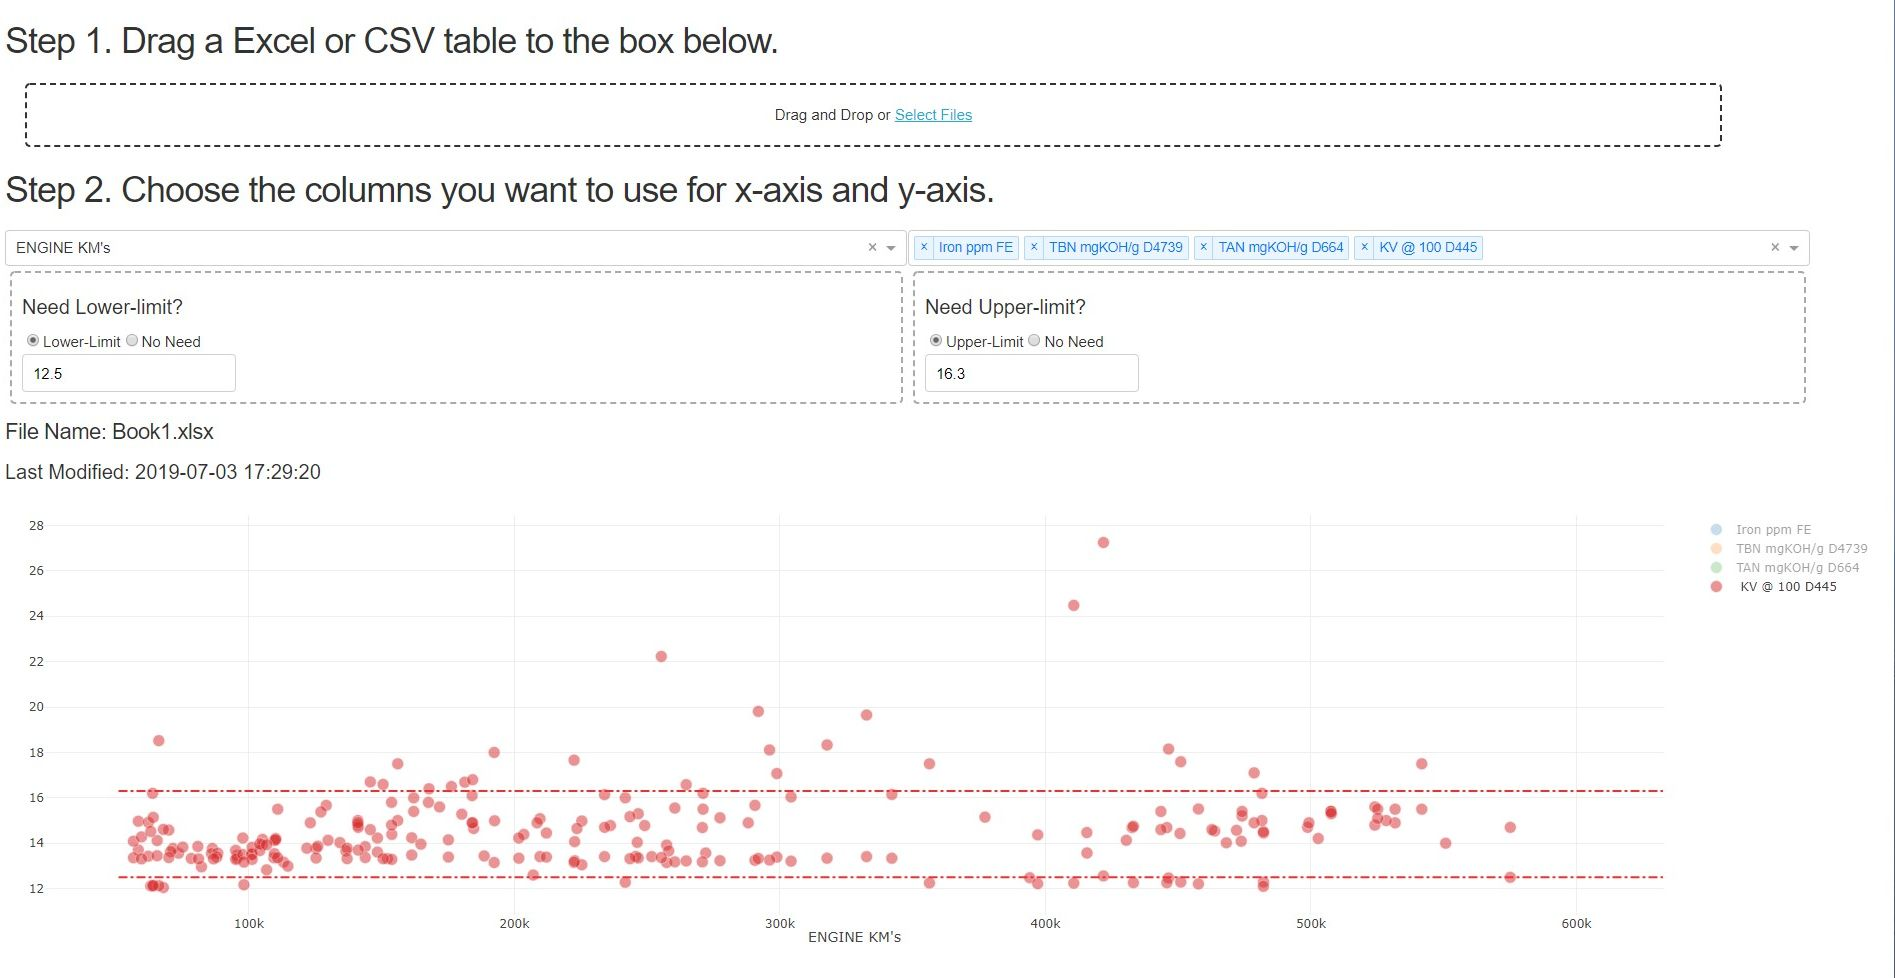
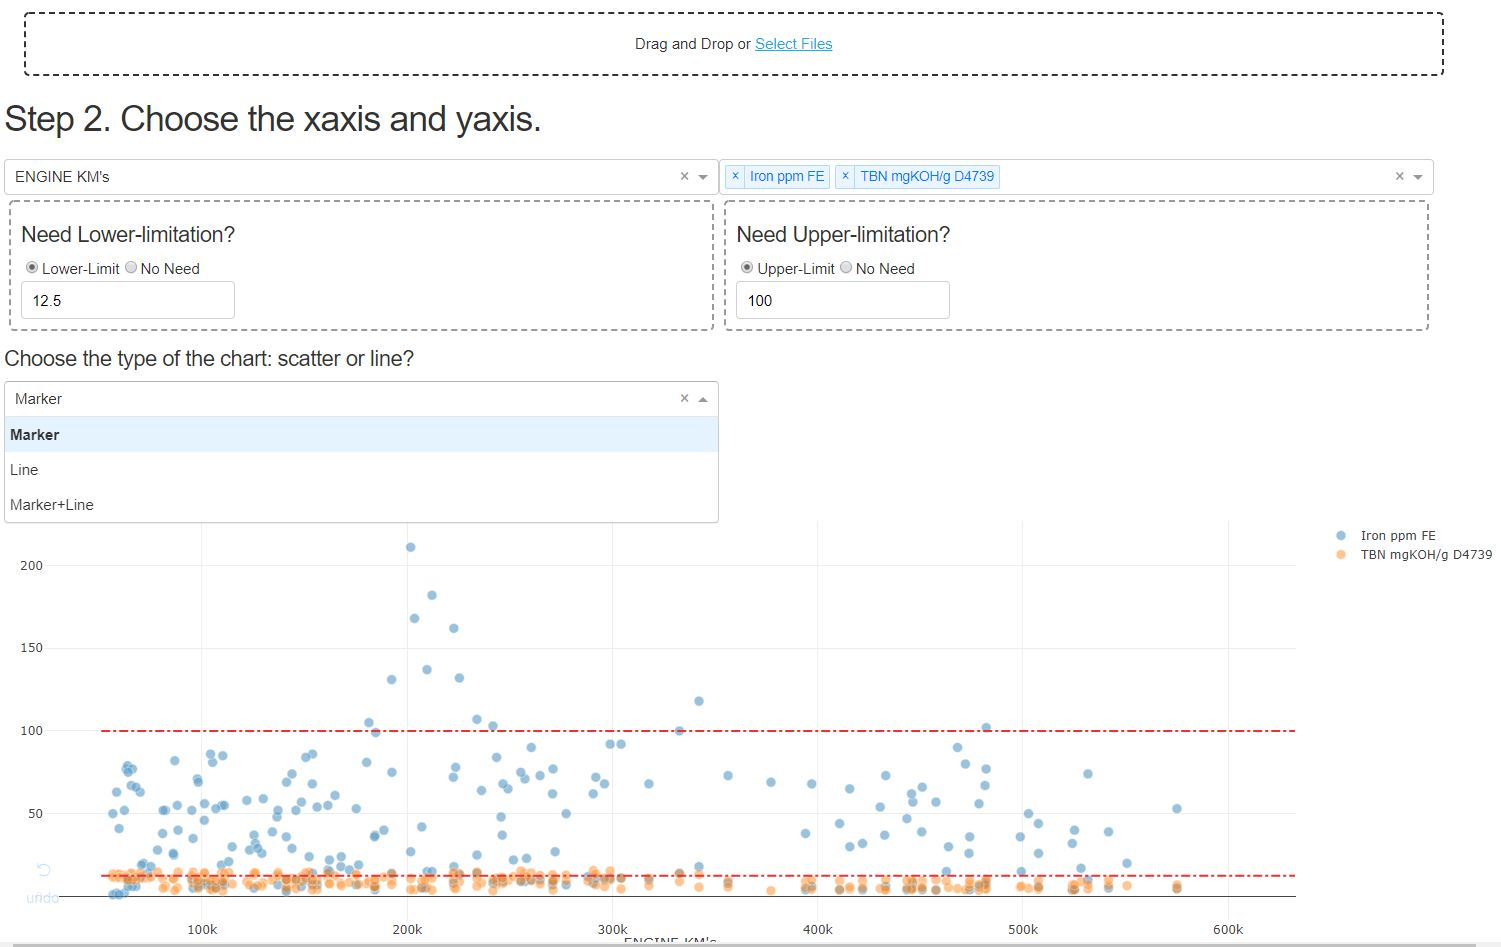
version 0.2

diff --git a/uplod.py b/uplod.py
@@ -8,6 +8,7 @@ from dash.dependencies import Input, Output, State
 import dash_core_components as dcc
 import dash_html_components as html
 import dash_table
+from flask_caching import Cache
 
 import pandas as pd
 import plotly.graph_objs as go
@@ -24,12 +25,21 @@ auth = dash_auth.BasicAuth(
     app,
     VALID_USERNAME_PASSWORD_PAIRS
 )
+CACHE_CONFIG = {
+    # try 'filesystem' if you don't want to setup redis
+    # 'CACHE_TYPE': 'redis',
+    # 'CACHE_REDIS_URL': os.environ.get('REDIS_URL', 'localhost:6379')
+    'CACHE_TYPE': 'filesystem',
+    'CACHE_DIR': r'./tmp'
+}
+cache = Cache()
+cache.init_app(app.server, config=CACHE_CONFIG)
  
 # available_indicators = df['Indicator Name'].unique()
 
 app.layout = html.Div([
     html.H2('Step 1. Upload an excel or csv file.'),
-	# Upload component
+    # Upload component
     dcc.Upload(
         id='upload-data',
         children=html.Div([
@@ -68,7 +78,7 @@ app.layout = html.Div([
                 placeholder='Enter a value...',
                 type='text',
                 value=''
-		),
+        ),
         ],
             style={'border': '2px dashed #999', 'borderRadius': '5px', 
                     'padding': '10px', 'margin': '5px 5px'}
@@ -99,18 +109,30 @@ app.layout = html.Div([
                 placeholder='Enter a value...',
                 type='text',
                 value=''
-		    )],
+            )],
             style={
                 'border': '2px dashed #999', 'borderRadius': '5px', 
                 'padding': '10px', 'margin': '5px 5px'}),
             ],
     style={'width': '48%', 'display': 'inline-block'}),
+
+    html.Div([
+        html.H5('Choose the type of the chart: scatter or line?'),
+        dcc.Dropdown(
+            id='scatter-mode',
+            value='markers',
+            options=[{'label': i, 'value': j} for i, j in 
+                        zip(['Marker', 'Line', 'Marker+Line'], ['markers', 'lines', 'lines+markers'])]
+        )
+    ],
+        style={'width': '48%'}),
+
     html.Div(id='output-data-upload'),
 ])
 
-
 # get useful data from dataset
-def parse_contents(contents, xName, minLim, minLimVal, yNames, maxLim, maxLimVal, filename, states):
+def parse_contents(contents, xName, minLim, minLimVal, yNames, 
+                    maxLim, maxLimVal, marker_mode, filename, states):
     content_type, content_string = contents.split(',')
     decoded = base64.b64decode(content_string)
     try:
@@ -131,27 +153,32 @@ def parse_contents(contents, xName, minLim, minLimVal, yNames, maxLim, maxLimVal
     traces = []
     # print(yNames)
     # print(df.columns)
+    if marker_mode == 'markers':
+        marker = {'size': 10, 'opacity': 0.65, 'line': {'width': 0.5, 'color': 'white'}}
+    else:
+        marker = {'size': 7, 'opacity': 0.65}
     for i in yNames:
-    	traces.append(go.Scatter(
-    							x=df.loc[:, xName],
-    							y=df.loc[:, i],
-    							mode='markers',
-    							marker={'size': 12, 'opacity': 0.5,
-    									'line': {'width': 0.5, 'color': 'white'}},
-    							name=i,
-    		))
+        traces.append(go.Scatter(
+                                x=df.loc[:, xName],
+                                y=df.loc[:, i],
+                                mode=marker_mode,
+                                marker=marker,
+                                opacity=0.7,
+                                # marker={'size': 10, 'opacity': 0.65, 'line': {'width': 0.5, 'color': 'white'}},
+                                name=i,
+            ))
 
     # 根据 minLim等的情况，决定是否加线
     # plt.vlines(0, 0, 0.5, colors = "c", linestyles = "dashed")
     # plotly 里面加线：https://plot.ly/python/shapes/
     if (minLim == 'No Need') & (maxLim == 'No Need'):
-    	    layout = go.Layout(xaxis={'title': xName},
-    					margin={'l': 40, 'r':20, 't':20, 'b':30},
-    					hovermode='closest')
+            layout = go.Layout(xaxis={'title': xName},
+                        margin={'l': 40, 'r':20, 't':20, 'b':30},
+                        hovermode='closest')
     if (minLim != 'No Need') & (maxLim == 'No Need'):
             layout = go.Layout(xaxis={'title': xName},
-    					margin={'l': 40, 'r':20, 't':20, 'b':30},
-    					hovermode='closest',
+                        margin={'l': 40, 'r':20, 't':20, 'b':30},
+                        hovermode='closest',
                         shapes=[
                             {'type': 'line', 'x0': min(df[xName])*0.9, 'y0': minLimVal, 
                             'x1': max(df[xName])*1.1, 'y1': minLimVal,
@@ -159,8 +186,8 @@ def parse_contents(contents, xName, minLim, minLimVal, yNames, maxLim, maxLimVal
                         ])
     if (minLim == 'No Need') & (maxLim != 'No Need'):
             layout = go.Layout(xaxis={'title': xName},
-    					margin={'l': 40, 'r':20, 't':20, 'b':30},
-    					hovermode='closest',
+                        margin={'l': 40, 'r':20, 't':20, 'b':30},
+                        hovermode='closest',
                         shapes=[
                             {'type': 'line', 'x0': min(df[xName])*0.9, 'y0': maxLimVal, 
                             'x1': max(df[xName])*1.1, 'y1': maxLimVal,
@@ -168,8 +195,8 @@ def parse_contents(contents, xName, minLim, minLimVal, yNames, maxLim, maxLimVal
                         ])
     if (minLim != 'No Need') & (maxLim != 'No Need'):
             layout = go.Layout(xaxis={'title': xName},
-    					margin={'l': 40, 'r':20, 't':20, 'b':30},
-    					hovermode='closest',
+                        margin={'l': 40, 'r':20, 't':20, 'b':30},
+                        hovermode='closest',
                         shapes=[
                             {'type': 'line', 'x0': min(df[xName])*0.9, 'y0': maxLimVal, 
                             'x1': max(df[xName])*1.1, 'y1': maxLimVal,
@@ -183,32 +210,31 @@ def parse_contents(contents, xName, minLim, minLimVal, yNames, maxLim, maxLimVal
     return html.Div([
         html.H5('Filename: {}'.format(filename)),
         html.H5('Last modified: {}'.format(str(datetime.datetime.fromtimestamp(states))[:-7])),
-	    dcc.Graph(
-	    	figure={
-	         'data': traces,
-	         'layout': layout,}
-	    	)
+        dcc.Graph(
+            figure={
+             'data': traces,
+             'layout': layout,}
+            )
     ])
 
 @app.callback(Output('output-data-upload', 'children'),
-			 [Input('upload-data', 'contents'),
-			  Input('xaxis-column', 'value'),
-			  Input('min-limit-value', 'value'),
-			  Input('min-lim-value', 'value'),
-			  Input('yaxis-column', 'value'),
-			  Input('upper-limit-value', 'value'),
-			  Input('max-lim-value', 'value')],
-			 [State('upload-data', 'filename'),
-			  State('upload-data', 'last_modified')])
-def update_output(contents, xName, minLim, minLimVal, yNames, maxLim, maxLimVal, filename, states):
-	if contents is not None:
-		children = parse_contents(contents, xName, minLim, minLimVal, yNames, maxLim, maxLimVal, filename, states)
-		return children
+             [Input('upload-data', 'contents'), Input('xaxis-column', 'value'),
+              Input('min-limit-value', 'value'), Input('min-lim-value', 'value'),
+              Input('yaxis-column', 'value'), Input('upper-limit-value', 'value'),
+              Input('max-lim-value', 'value'), Input('scatter-mode', 'value')],
+             [State('upload-data', 'filename'),
+              State('upload-data', 'last_modified')])
+def update_output(contents, xName, minLim, minLimVal, yNames, 
+                    maxLim, maxLimVal, marker_mode, filename, states):
+    if contents is not None:
+        children = parse_contents(contents, xName, minLim, minLimVal, yNames, 
+                                    maxLim, maxLimVal, marker_mode, filename, states)
+        return children
 
 
 @app.callback(Output('xaxis-column', 'options'),
-			  [Input('upload-data', 'contents')],
-			  [State('upload-data', 'filename'),])
+              [Input('upload-data', 'contents')],
+              [State('upload-data', 'filename'),])
 def get_available_indicators(contents, filename):
     if contents is not None:
         content_type, content_string = contents.split(',')
@@ -233,8 +259,8 @@ def get_available_indicators(contents, filename):
         return ''
 
 @app.callback(Output('yaxis-column', 'options'),
-			  [Input('upload-data', 'contents')],
-			  [State('upload-data', 'filename')])
+              [Input('upload-data', 'contents')],
+              [State('upload-data', 'filename')])
 def get_available_indicators1(contents, filename):
     if contents is not None:
         content_type, content_string = contents.split(',')

diff --git a/README.md b/README.md
@@ -8,28 +8,27 @@ It will give an interface like below:
 
 ![initial interface](./interface1.jpg "Demo")
 
-You can then upload any Excel or CSV table (must have no empty rows at the beginnig) and you can choose any features you're interested then to check the scatter chart which generated automatically.
+You can then upload any Excel or CSV table (must have no empty rows at the beginnig) and you can choose any features you're interested then to check the chart which generated automatically.
 
 The file "exploration.py", which focusing on flash_cache usage, is still under developing.
 
+### Update Log
 ----------
+V0.2 7/12/2019
+Add a function that be able to choose the type of the chart: scatter/line only, or scatter+line
 
+V0.1 7/1/2019:
+The first version of the tool.
+
+----------
 Necessary libraries (latest version after 7/1/2019):
 
 numpy
-
 pandas
-
 plotly
-
 dash
-
 dash_core_components
-
 dash_core_html
-
 dash_auth
-
 dash_table
-
 flask_caching
